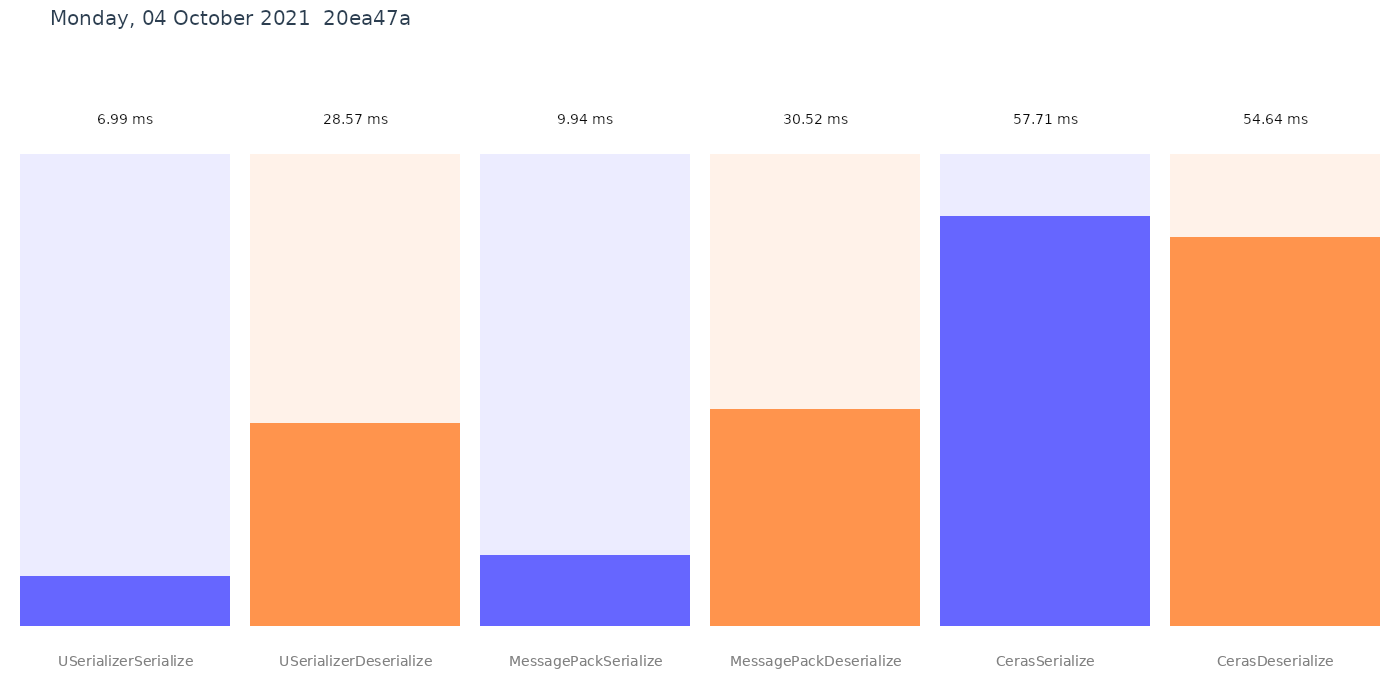
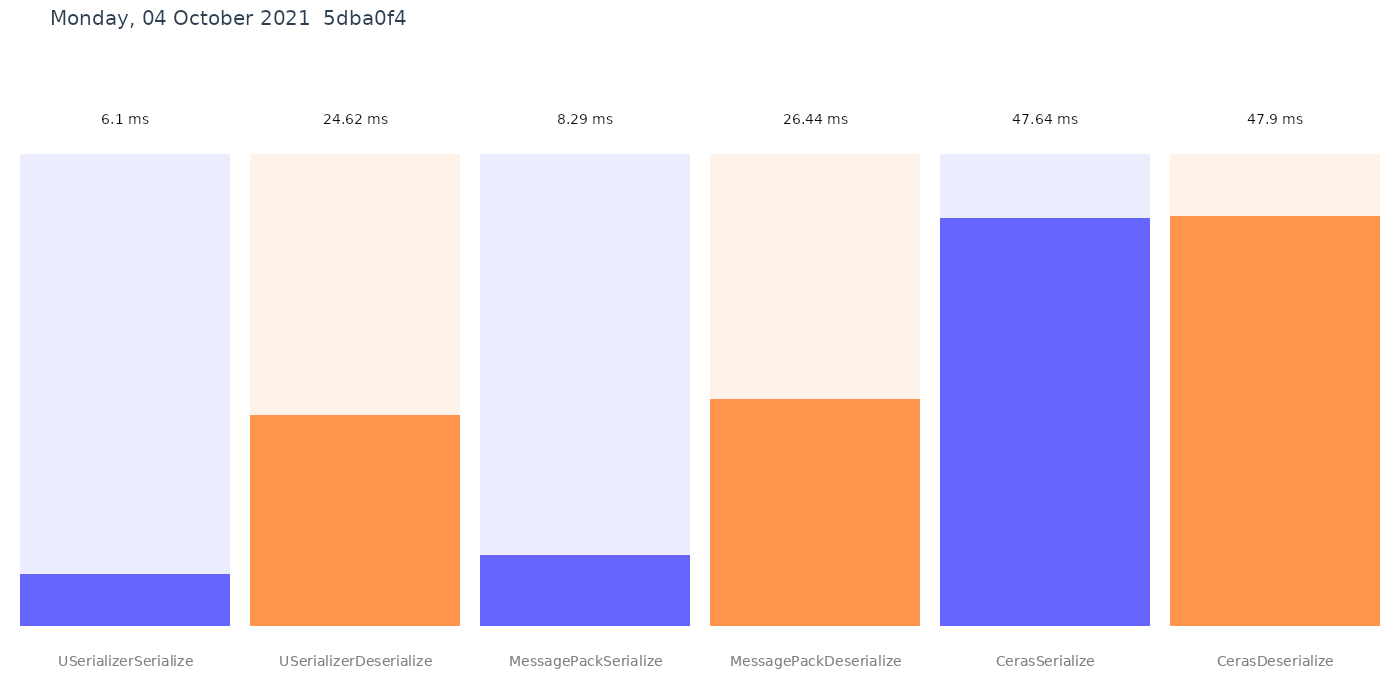
deploy: 5dba0f47e7fa8175e1e047a2bc4d8bdd0f265c29

diff --git a/performance.md b/performance.md
@@ -1,7 +1,7 @@
 ``` ini
 
 BenchmarkDotNet=v0.12.1, OS=ubuntu 20.04
-Intel Xeon Platinum 8171M CPU 2.60GHz, 1 CPU, 2 logical and 2 physical cores
+Intel Xeon Platinum 8272CL CPU 2.60GHz, 1 CPU, 2 logical and 2 physical cores
 .NET Core SDK=5.0.401
   [Host]   : .NET Core 5.0.10 (CoreCLR 5.0.1021.41214, CoreFX 5.0.1021.41214), X64 RyuJIT
   ShortRun : .NET Core 5.0.10 (CoreCLR 5.0.1021.41214, CoreFX 5.0.1021.41214), X64 RyuJIT
@@ -12,9 +12,9 @@ WarmupCount=3
 ```
 |                 Method |      Mean |     Error |    StdDev |
 |----------------------- |----------:|----------:|----------:|
-|   USerializerSerialize |  6.988 ms | 0.2942 ms | 0.0161 ms |
-| USerializerDeserialize | 28.572 ms | 4.4121 ms | 0.2418 ms |
-|   MessagePackSerialize |  9.939 ms | 8.7909 ms | 0.4819 ms |
-| MessagePackDeserialize | 30.525 ms | 4.8068 ms | 0.2635 ms |
-|         CerasSerialize | 57.712 ms | 5.8137 ms | 0.3187 ms |
-|       CerasDeserialize | 54.636 ms | 1.8504 ms | 0.1014 ms |
+|   USerializerSerialize |  6.104 ms | 0.0201 ms | 0.0011 ms |
+| USerializerDeserialize | 24.619 ms | 3.2345 ms | 0.1773 ms |
+|   MessagePackSerialize |  8.292 ms | 0.0822 ms | 0.0045 ms |
+| MessagePackDeserialize | 26.441 ms | 0.1363 ms | 0.0075 ms |
+|         CerasSerialize | 47.640 ms | 1.7315 ms | 0.0949 ms |
+|       CerasDeserialize | 47.904 ms | 1.3783 ms | 0.0756 ms |
